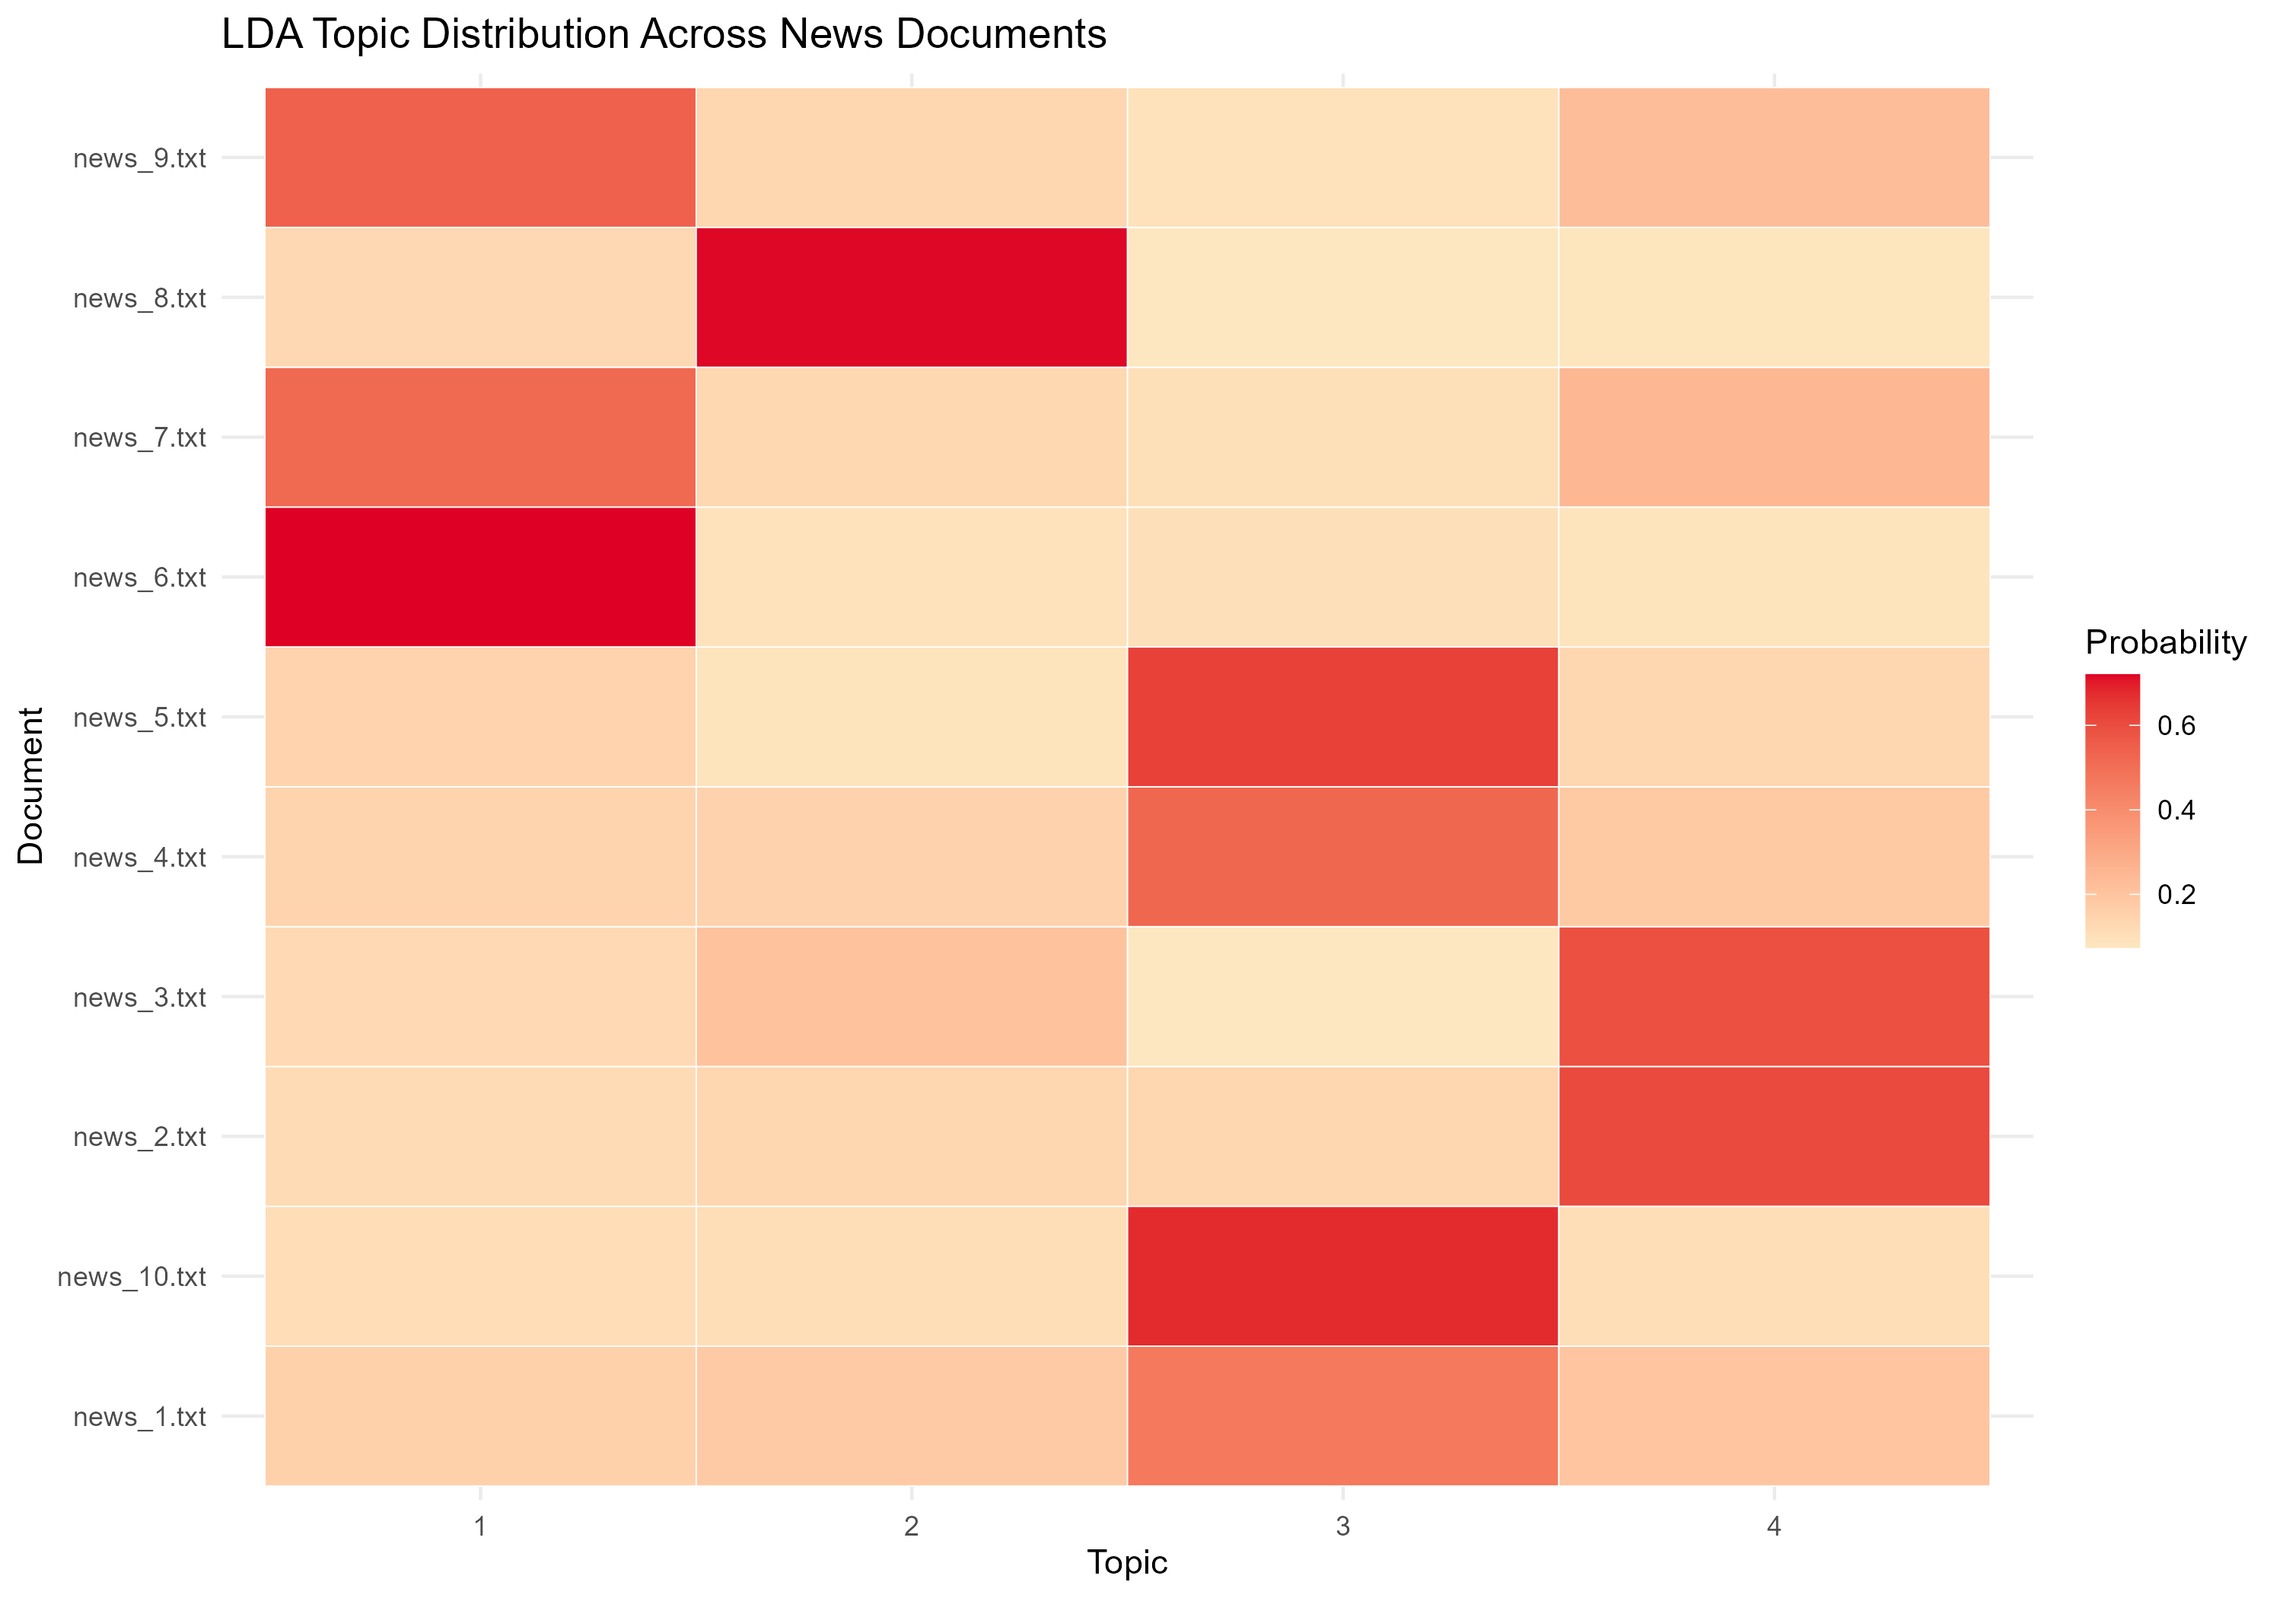
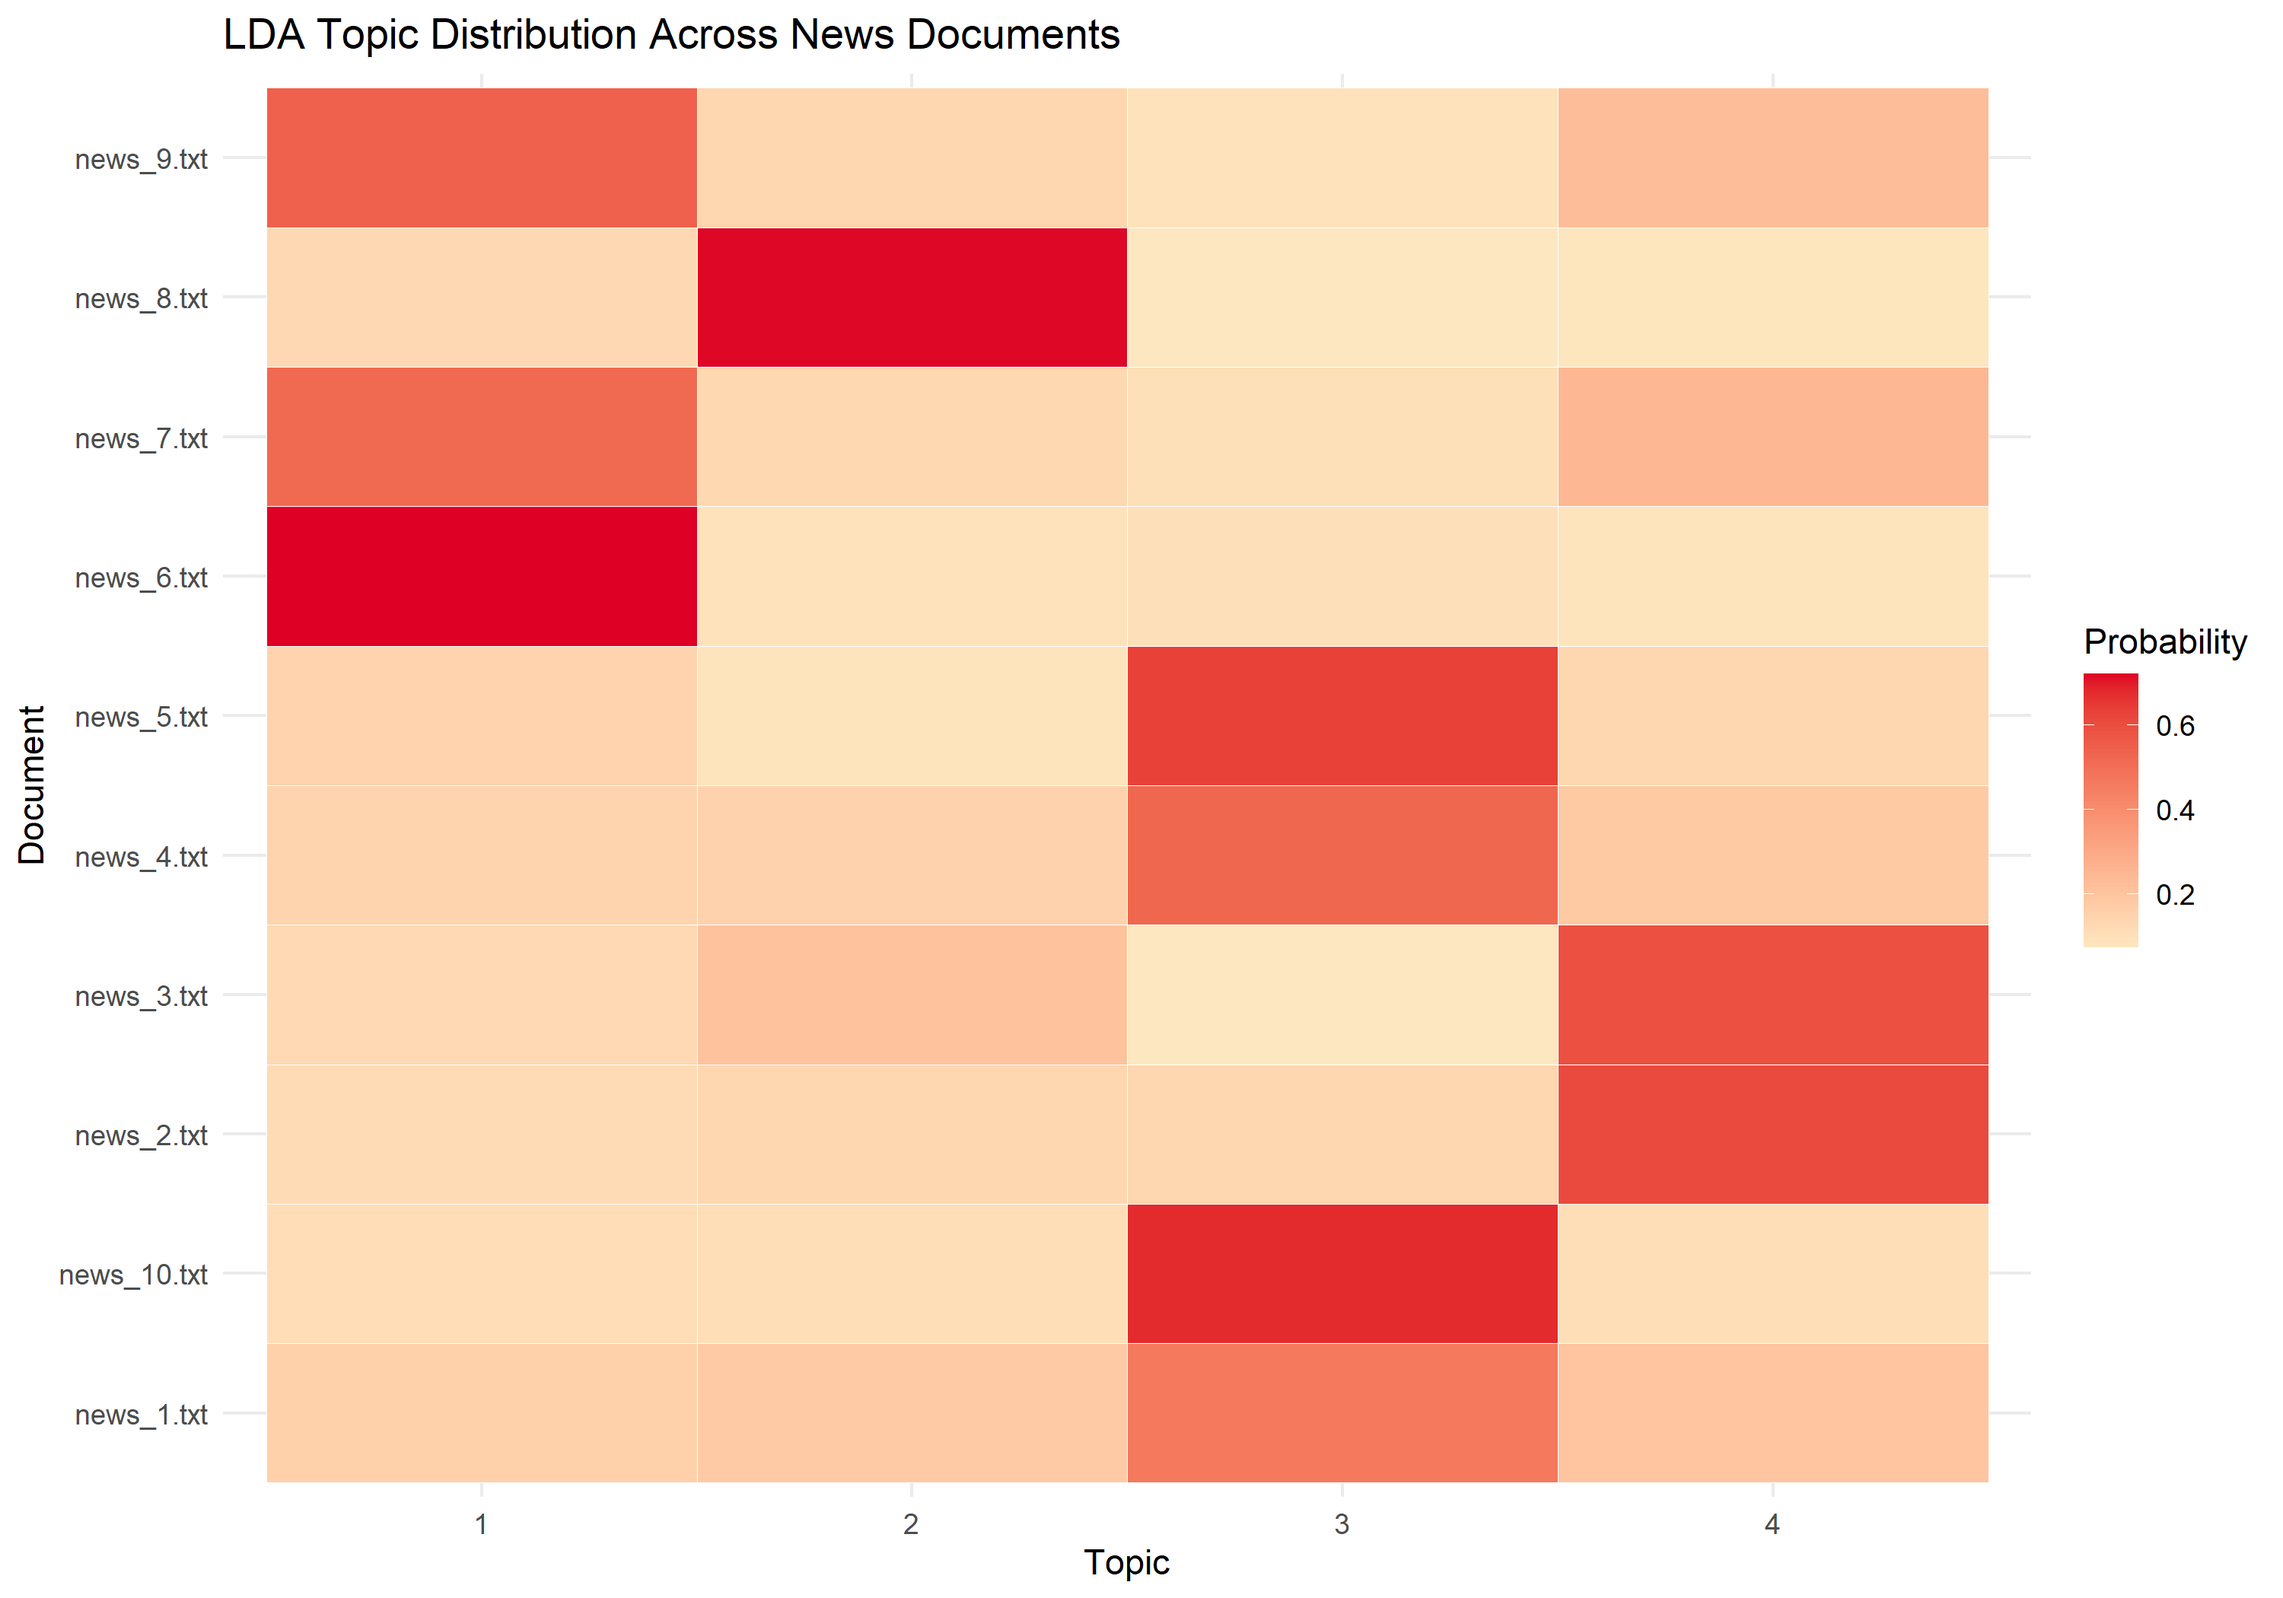
Complete LDA topic modelling visualisations and documentation

diff --git a/Documentation/LDA.md b/Documentation/LDA.md
@@ -93,7 +93,21 @@ The horizontal axis represents topic-word probability (beta), while the vertical
 
 The chart illustrates differences in vocabulary across the four topics. For example, `south` has the highest probability within Topic 1, while `eskom` has the highest probability within Topic 3.
 
-### 6.2 Document-Topic Distribution Heatmap
+### 6.2 Keyword Probability Heatmap
+
+![Top Keyword Probabilities Across LDA Topics](../LDA/figures/keyword_heatmap.png)
+
+The keyword probability heatmap provides a second visualisation of the highest-probability terms identified by the LDA model.
+
+The horizontal axis represents the four topics, while the vertical axis displays the extracted keywords. Colour intensity represents the topic-word probability (beta), with darker cells indicating higher probabilities.
+
+This visualisation complements the horizontal bar chart by presenting keyword probabilities in a matrix format, making it easier to examine which keywords are prominent within each topic.
+
+For example, `south`, `service`, and `invoices` are prominent in Topic 1, while `government` and `coalition` are prominent in Topic 2.
+
+The heatmap displays the top ten extracted words per topic rather than the complete model vocabulary. Blank cells therefore indicate combinations not included in the exported top-word selection, rather than necessarily indicating zero probability.
+
+### 6.3 Document-Topic Distribution Heatmap
 
 ![LDA Topic Distribution Across News Documents](../LDA/figures/heatmap.png)
 
@@ -135,6 +149,7 @@ Overall, the analysis demonstrates how LDA can support the identification and vi
 **Visualisation outputs:** `LDA/figures/`
 
 - `topic_keywords.png`
+- `keyword_heatmap.png`
 - `heatmap.png`
 
 ## 9. R Implementation
